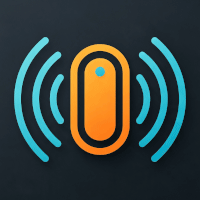
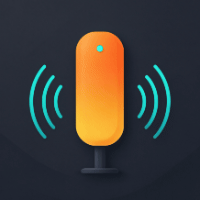
chore: add voice clone

Changed region(s): [[0.06, 0.15, 0.93, 0.87]]

diff --git a/src/main/lib/plugin/marketplace.ts b/src/main/lib/plugin/marketplace.ts
@@ -744,6 +744,18 @@ export const marketplacePlugins: IMarketplacePlugin[] = [
     },
   },
   {
+    id: 'tinker-voice-clone',
+    name: 'Voice Clone',
+    description: 'Clone voices and synthesize speech locally with audio.cpp',
+    icon: 'tinker-voice-clone.png',
+    locales: {
+      'zh-CN': {
+        name: '音色克隆',
+        description: '使用 audio.cpp 在本地克隆音色并合成语音',
+      },
+    },
+  },
+  {
     id: 'tinker-wallpaper',
     name: 'Wallpaper',
     description: 'Search, preview and set desktop wallpapers',
